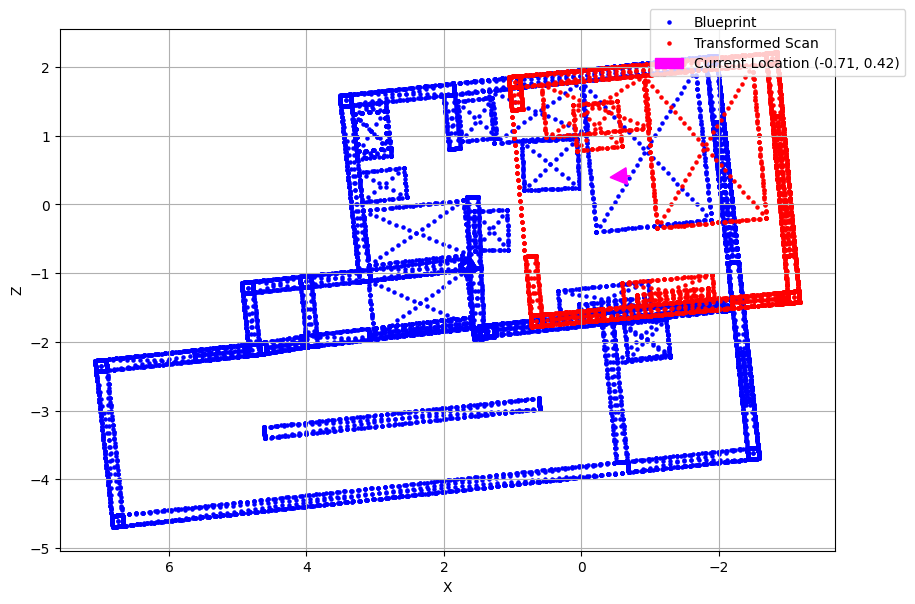
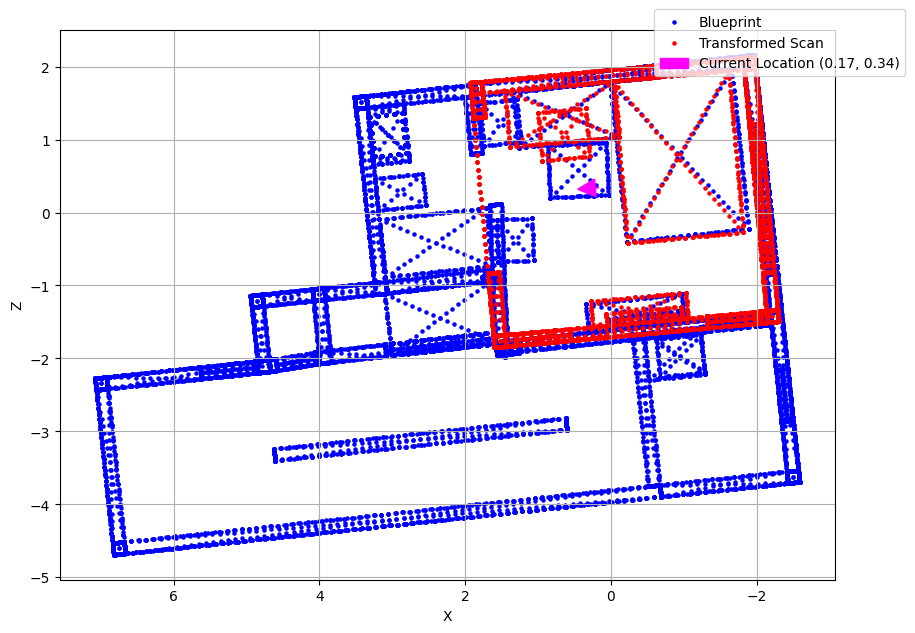
add logic to app.py

Changed region(s): [[0.0306, 0.0298, 0.9792, 0.9536], [0.0306, 0.6556, 0.0612, 0.6854]]

diff --git a/app.py b/app.py
@@ -5,7 +5,8 @@ import os
 from utils.conversion import usdz_to_xyz
 from utils.file_utils import save_file, remove_file_if_exists, get_full_path
 from utils.process_data import process_point_clouds
-from utils.imageAlignment import apply_transformation_and_visualize, read_xyz, error_pixels_from_image, xyz_to_image, feature_matching_with_geometric_constraints
+from utils.imageAlignment import error_pixels_from_image, xyz_to_image, feature_matching_with_geometric_constraints, align_images_and_calculate_vector, apply_transformation_and_visualize, read_xyz
+
 import matplotlib
 matplotlib.use('Agg')
 import matplotlib.pyplot as plt
@@ -140,48 +141,41 @@ def get_backendpngNew():
     remove_file_if_exists(output_image_path_error_pixels)
     remove_file_if_exists(aligned_image_path)
 
-    # Step 1: Read XYZ files and calculate boundaries
+    # Read the blueprint data and get the bounding box
     blueprint_points = read_xyz(xyz_file_path_blueprint)
     min_x_blueprint, max_x_blueprint = np.min(blueprint_points[:, 0]), np.max(blueprint_points[:, 0])
     min_z_blueprint, max_z_blueprint = np.min(blueprint_points[:, 2]), np.max(blueprint_points[:, 2])
     boundary = (min_x_blueprint, max_x_blueprint, min_z_blueprint, max_z_blueprint)
 
-    # Step 2: Calculate error pixels for the blueprint
-    error_pixels = error_pixels_from_image(
-        xyz_file_path_blueprint, output_image_path_error_pixels, boundary, padding_pixels=50, image_size=(500, 500)
-    )
+    # Generate an image for the blueprint and calculate error pixels
+    error_pixels = error_pixels_from_image(xyz_file_path_blueprint, output_image_path_error_pixels, boundary, padding_pixels=50, image_size=(500, 500))
 
-    # Step 3: Generate images for both the blueprint and scan point clouds
-    # For the blueprint, calculate the scale factor
-    scale_factor = xyz_to_image(
-        xyz_file_path_blueprint, output_image_path_blueprint, boundary, error_pixels, padding_pixels=50, image_size=(500, 500), is_blueprint=True
-    )
+    # Generate an image for the blueprint and calculate pixels per unit
+    scale_factor = xyz_to_image(xyz_file_path_blueprint, output_image_path_blueprint, boundary, error_pixels, padding_pixels=50, image_size=(500, 500), is_blueprint=True)
 
-    # For the scan point cloud, generate the image without calculating scale factor
-    xyz_to_image(
-        xyz_file_path_scan, output_image_path_scan, boundary, error_pixels, padding_pixels=50, image_size=(500, 500), is_blueprint=False
-    )
+    # Generate an image for a non-blueprint file (no pixels per unit calculation)
+    xyz_to_image(xyz_file_path_scan, output_image_path_scan, boundary, error_pixels, padding_pixels=50, image_size=(500, 500), is_blueprint=False)
 
-    # Step 4: Perform feature matching between the generated images to determine the transformation matrix
-    # Load images using OpenCV
+    # Load the two images to be matched
     img1 = cv2.imread(output_image_path_scan)
     img2 = cv2.imread(output_image_path_blueprint)
 
-    # Make sure the images are loaded correctly
-    if img1 is None or img2 is None:
-        return "Error: One or both images failed to load!", 500
+    # Perform feature matching with geometric constraints (translation and rotation only)
+    aligned_img1, transformation_matrix, matches, keypoints1, keypoints2, points1, points2 = feature_matching_with_geometric_constraints(img1, img2)
 
-    # Get transformation matrix using feature matching
-    _, transformation_matrix, _, _, _, _, _ = feature_matching_with_geometric_constraints(img1, img2)
-
-    # Step 5: Apply the transformation to the XYZ point cloud and visualize
-    apply_transformation_and_visualize(
-        blueprint_file=xyz_file_path_blueprint,
-        scan_file=xyz_file_path_scan,
-        aligned_image_file=aligned_image_path,
-        scale_factor=scale_factor,
-        transformation_matrix_2d=transformation_matrix
+    # Align img1 using the transformation matrix to align with img2 and calculate the vector difference
+    aligned_img1_with_center, img2_with_center, center_vector, transformed_center_img1, center_img2 = align_images_and_calculate_vector(
+        output_image_path_scan, output_image_path_blueprint, transformation_matrix
     )
+
+    # Create the transformation matrix for XYZ file with adjusted tx and ty
+    xyz_transformation_matrix = transformation_matrix.copy()
+    xyz_transformation_matrix[0, 2] = -center_vector[0]
+    xyz_transformation_matrix[1, 2] = -center_vector[1]
+
+    # Apply the transformation and visualize
+    apply_transformation_and_visualize(xyz_file_path_blueprint, xyz_file_path_scan, aligned_image_path, scale_factor, xyz_transformation_matrix)
+
 
     # Send the saved file as a response
     return send_file(aligned_image_path, as_attachment=True)
